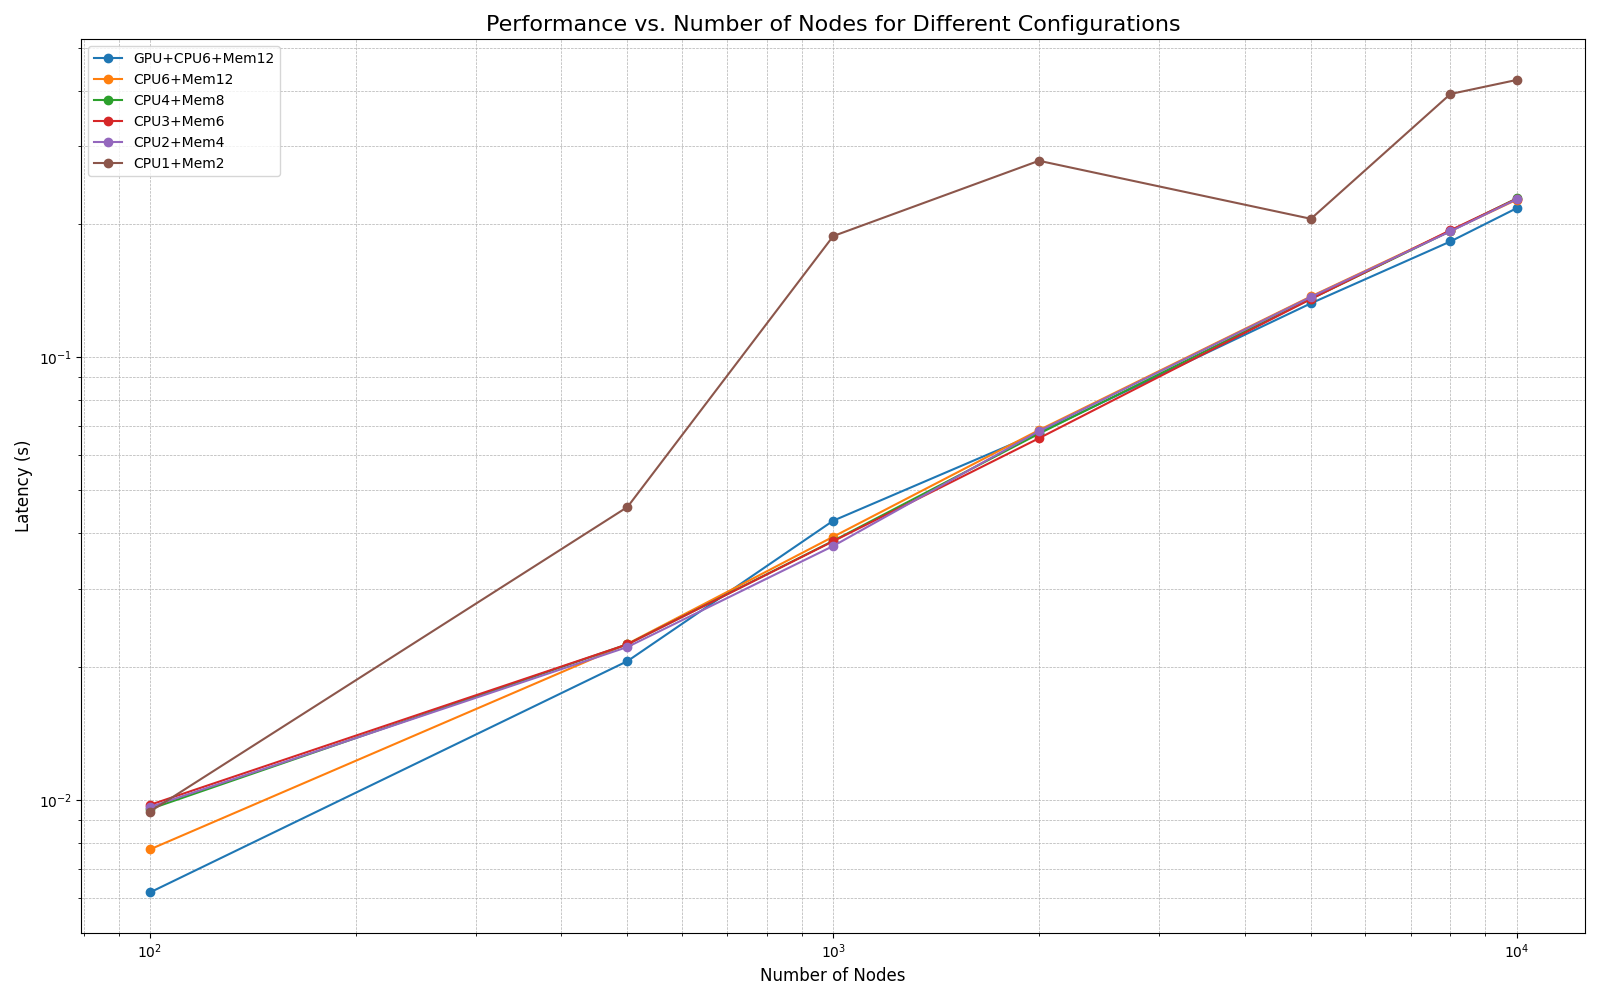
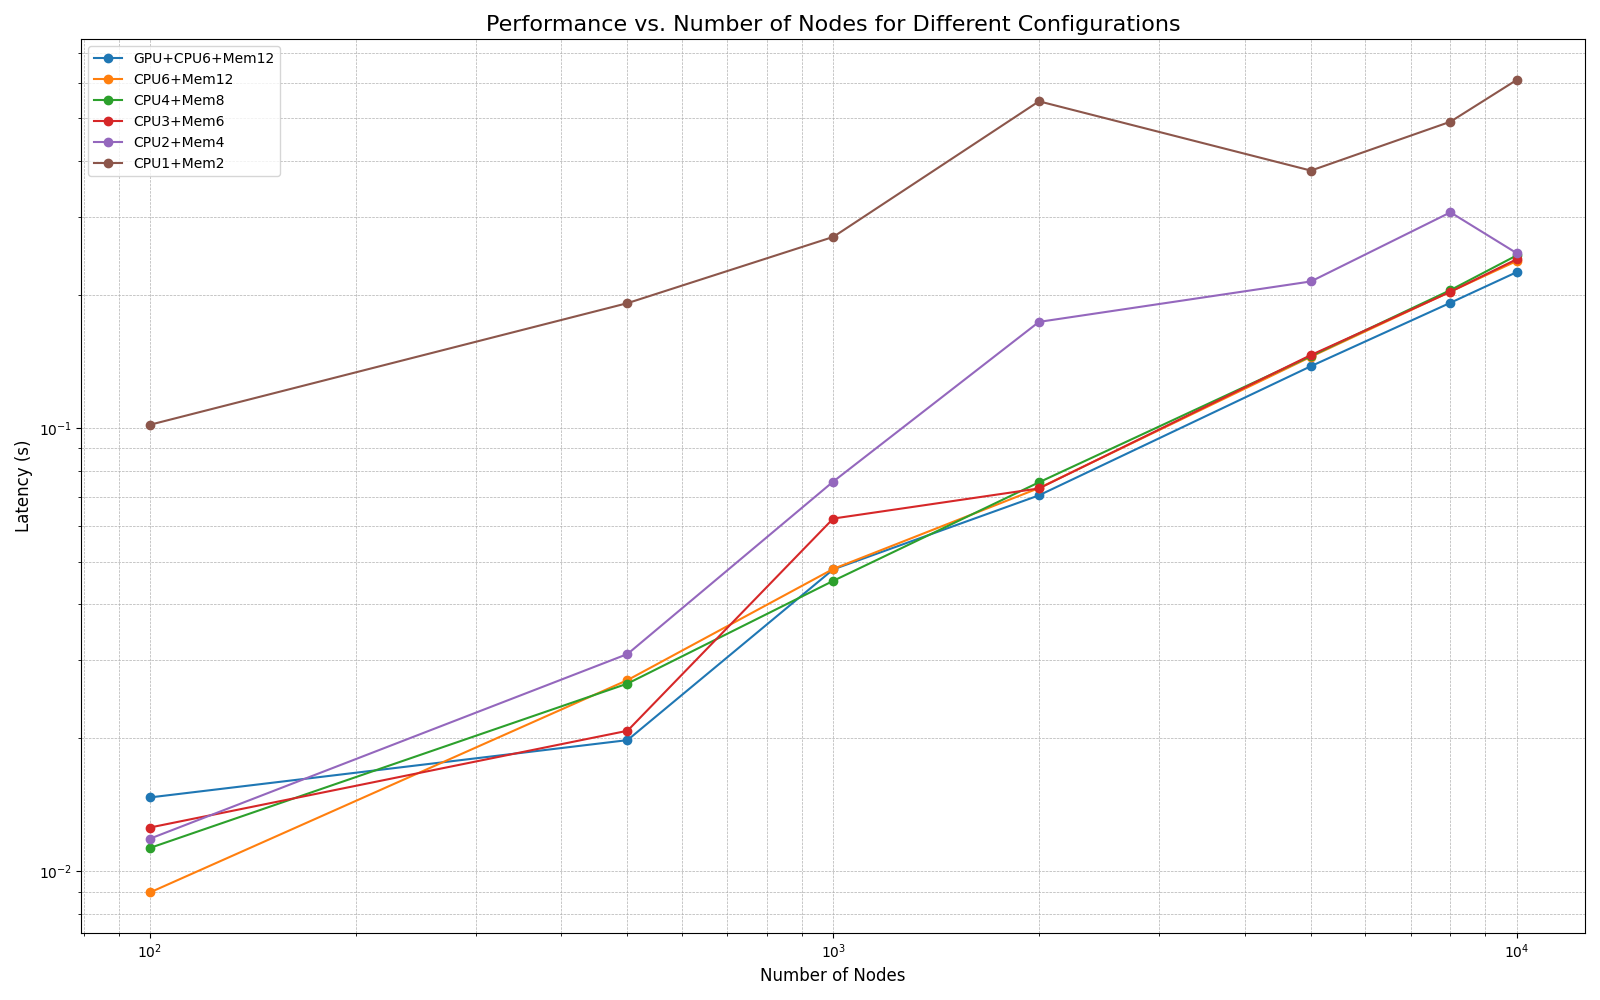
rgcn

diff --git a/scripts/client_sweep_rgcn.py b/scripts/client_sweep_rgcn.py
@@ -3,29 +3,35 @@ import networkx as nx
 import random
 import numpy as np
 
-def generate_graph_data(num_nodes, num_features, m_edges, seed):
+def generate_graph_data(num_nodes, num_features, m_edges, seed, num_relations):
     random.seed(seed)
     np.random.seed(seed)
     torch.manual_seed(seed)
 
     g = nx.barabasi_albert_graph(n=num_nodes, m=m_edges, seed=seed)
     edge_index = torch.tensor(list(g.edges), dtype=torch.long).t().contiguous()
+    edge_type = torch.randint(0, num_relations, (edge_index.size(1),), dtype=torch.long)
     x = torch.randn(num_nodes, num_features)
-    return x, edge_index
+    return x, edge_index, edge_type
 
-def send_request(url, x_list, edge_index_list):
+def send_request(url, x_list, edge_index_list, edge_type_list):
     t0 = time.perf_counter()
-    payload = {"x": x_list, "edge_index": edge_index_list}
+    payload = {
+        "x": x_list, 
+        "edge_index": edge_index_list,
+        "edge_type": edge_type_list  
+    }
     r = requests.post(url, json=payload, timeout=120)
     return time.perf_counter() - t0, r.status_code
 
 def main():
-    ap = argparse.ArgumentParser(description="Deterministic GCN Performance Evaluation Client")
-    ap.add_argument("--url", required=True, help="URL of the GCN server endpoint.")
+    ap = argparse.ArgumentParser(description="Deterministic RGCN Performance Evaluation Client")
+    ap.add_argument("--url", required=True, help="URL of the RGCN server endpoint.")
     ap.add_argument("--node_scales", nargs="+", type=int, required=True, help="A list of node counts to test.")
     ap.add_argument("--features", type=int, default=16, help="Dimension of node features.")
     ap.add_argument("--m_edges", type=int, default=5, help="Number of edges to attach from a new node to existing nodes in BA model.")
     ap.add_argument("--seed", type=int, default=37, help="Global random seed for deterministic graph generation.")
+    ap.add_argument("--num_relations", type=int, default=4, help="Number of relation types in the graph.")
     ap.add_argument("--out", required=True, help="Output CSV file path.")
     args = ap.parse_args()
 
@@ -33,19 +39,21 @@ def main():
 
     with open(args.out, "w", newline="") as f:
         w = csv.writer(f)
-        w.writerow(["num_nodes", "num_edges", "features", "m_param", "seed", "latency_s", "status"])
+        w.writerow(["num_nodes", "num_edges", "features", "m_param", "seed", "num_relations", "latency_s", "status"])
         for n in args.node_scales:
             try:
                 graph_seed = args.seed
-                x, edge_index = generate_graph_data(n, args.features, args.m_edges, seed=graph_seed)
+                x, edge_index, edge_type = generate_graph_data(
+                    n, args.features, args.m_edges, seed=graph_seed, num_relations=args.num_relations
+                )
                 num_edges = edge_index.size(1)
-                print(f"Testing with {n} nodes, {num_edges} edges (seed={graph_seed})...")
-                lat, code = send_request(args.url, x.tolist(), edge_index.tolist())
-                w.writerow([n, num_edges, args.features, args.m_edges, graph_seed, lat, code])
+                print(f"Testing with {n} nodes, {num_edges} edges, {args.num_relations} relations (seed={graph_seed})...")
+                lat, code = send_request(args.url, x.tolist(), edge_index.tolist(), edge_type.tolist())
+                w.writerow([n, num_edges, args.features, args.m_edges, graph_seed, args.num_relations, lat, code])
                 print(f"  -> Latency: {lat:.4f}s, Status: {code}")
             except Exception as e:
                 print(f"Error processing {n} nodes: {e}")
-                w.writerow([n, -1, args.features, args.m_edges, graph_seed, -1, "error"])
+                w.writerow([n, -1, args.features, args.m_edges, graph_seed, args.num_relations, -1, "error"])
 
     print(f"Sweep complete. Results saved to {args.out}")
 

diff --git a/container/rgcn_server.py b/container/rgcn_server.py
@@ -1,0 +1,51 @@
+import torch
+from flask import Flask, request, jsonify
+from torch_geometric.nn import RGCNConv
+import time
+
+class RGCN(torch.nn.Module):
+    def __init__(self, in_channels, hidden_channels, out_channels, num_relations):
+        super().__init__()
+        self.conv1 = RGCNConv(in_channels, hidden_channels, num_relations)
+        self.conv2 = RGCNConv(hidden_channels, out_channels, num_relations)
+
+    def forward(self, x, edge_index, edge_type):
+        x = self.conv1(x, edge_index, edge_type).relu()
+        x = self.conv2(x, edge_index, edge_type)
+        return x
+
+NUM_RELATIONS = 4
+device = torch.device("cuda" if torch.cuda.is_available() else "cpu")
+model = RGCN(
+    in_channels=16, 
+    hidden_channels=32, 
+    out_channels=7,
+    num_relations=NUM_RELATIONS 
+).to(device)
+model.eval()
+print(f"RGCN Model loaded on {device} with {NUM_RELATIONS} relations")
+
+
+app = Flask(__name__)
+
+@app.route("/infer", methods=['POST'])
+def infer():
+    data = request.get_json()
+
+    x = torch.tensor(data['x']).to(device)
+    edge_index = torch.tensor(data['edge_index']).to(device)
+    edge_type = torch.tensor(data['edge_type']).to(device)
+
+    t0 = time.perf_counter()
+    with torch.no_grad():
+        output = model(x, edge_index, edge_type)
+    latency = time.perf_counter() - t0
+
+    return jsonify({
+        "status": "success",
+        "latency": latency,
+        "output_shape": list(output.shape)
+    })
+
+if __name__ == "__main__":
+    app.run(host='0.0.0.0', port=8006, debug=False)

diff --git a/scripts/generate_result.py b/scripts/generate_result.py
@@ -28,7 +28,7 @@ for config_name, filename in file_mapping.items():
     df = df[['latency_s']].rename(columns={'latency_s': config_name})
     combined_df = pd.concat([combined_df, df], axis=1)
 
-gcn_csv_path = os.path.join(result_directory, 'gcn.csv')
+gcn_csv_path = os.path.join(result_directory, 'rgcn.csv')
 combined_df.to_csv(gcn_csv_path, index=False)
 print(f"Successfully created the combined CSV file at: {gcn_csv_path}")
 print("--- Combined Data Head ---")

diff --git a/container/preload_rgcn.py b/container/preload_rgcn.py
@@ -1,0 +1,13 @@
+import torch
+from torch_geometric.nn import RGCNConv
+
+print("Initializing an RGCN model to cache any necessary components...")
+
+NUM_RELATIONS = 4
+
+model = torch.nn.Sequential(
+    RGCNConv(16, 32, NUM_RELATIONS),
+    torch.nn.ReLU(),
+    RGCNConv(32, 64, NUM_RELATIONS)
+)
+print("RGCN components are ready.")
